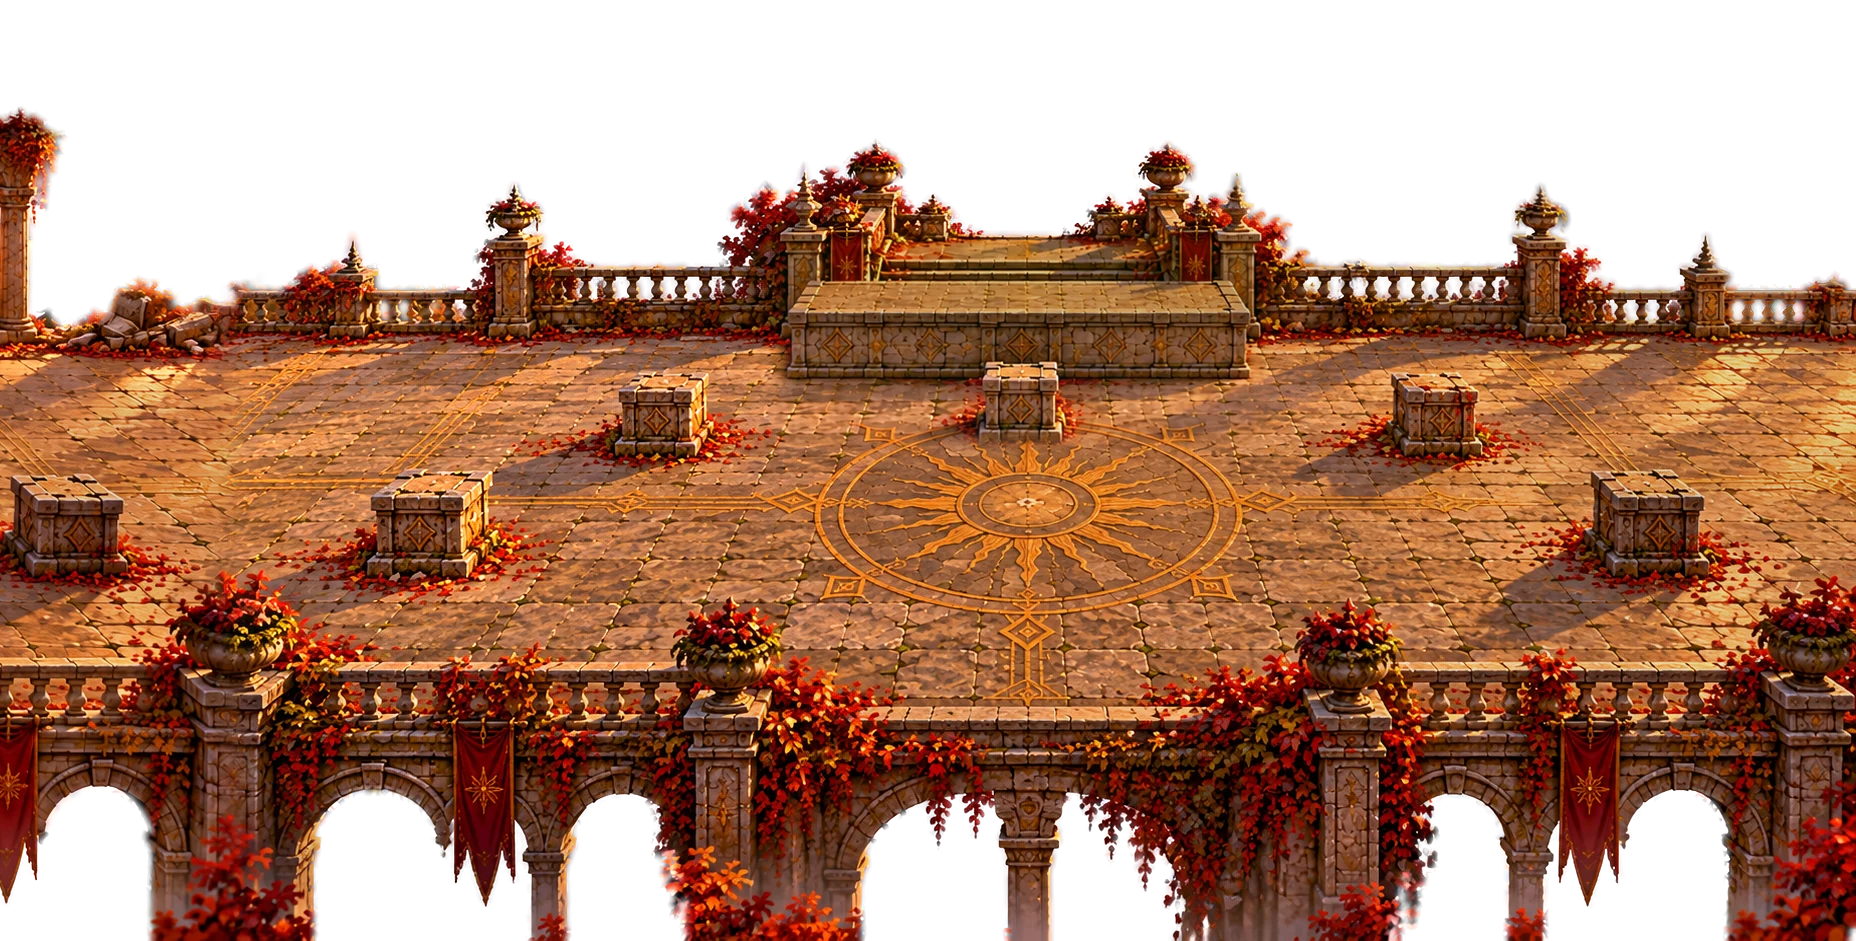
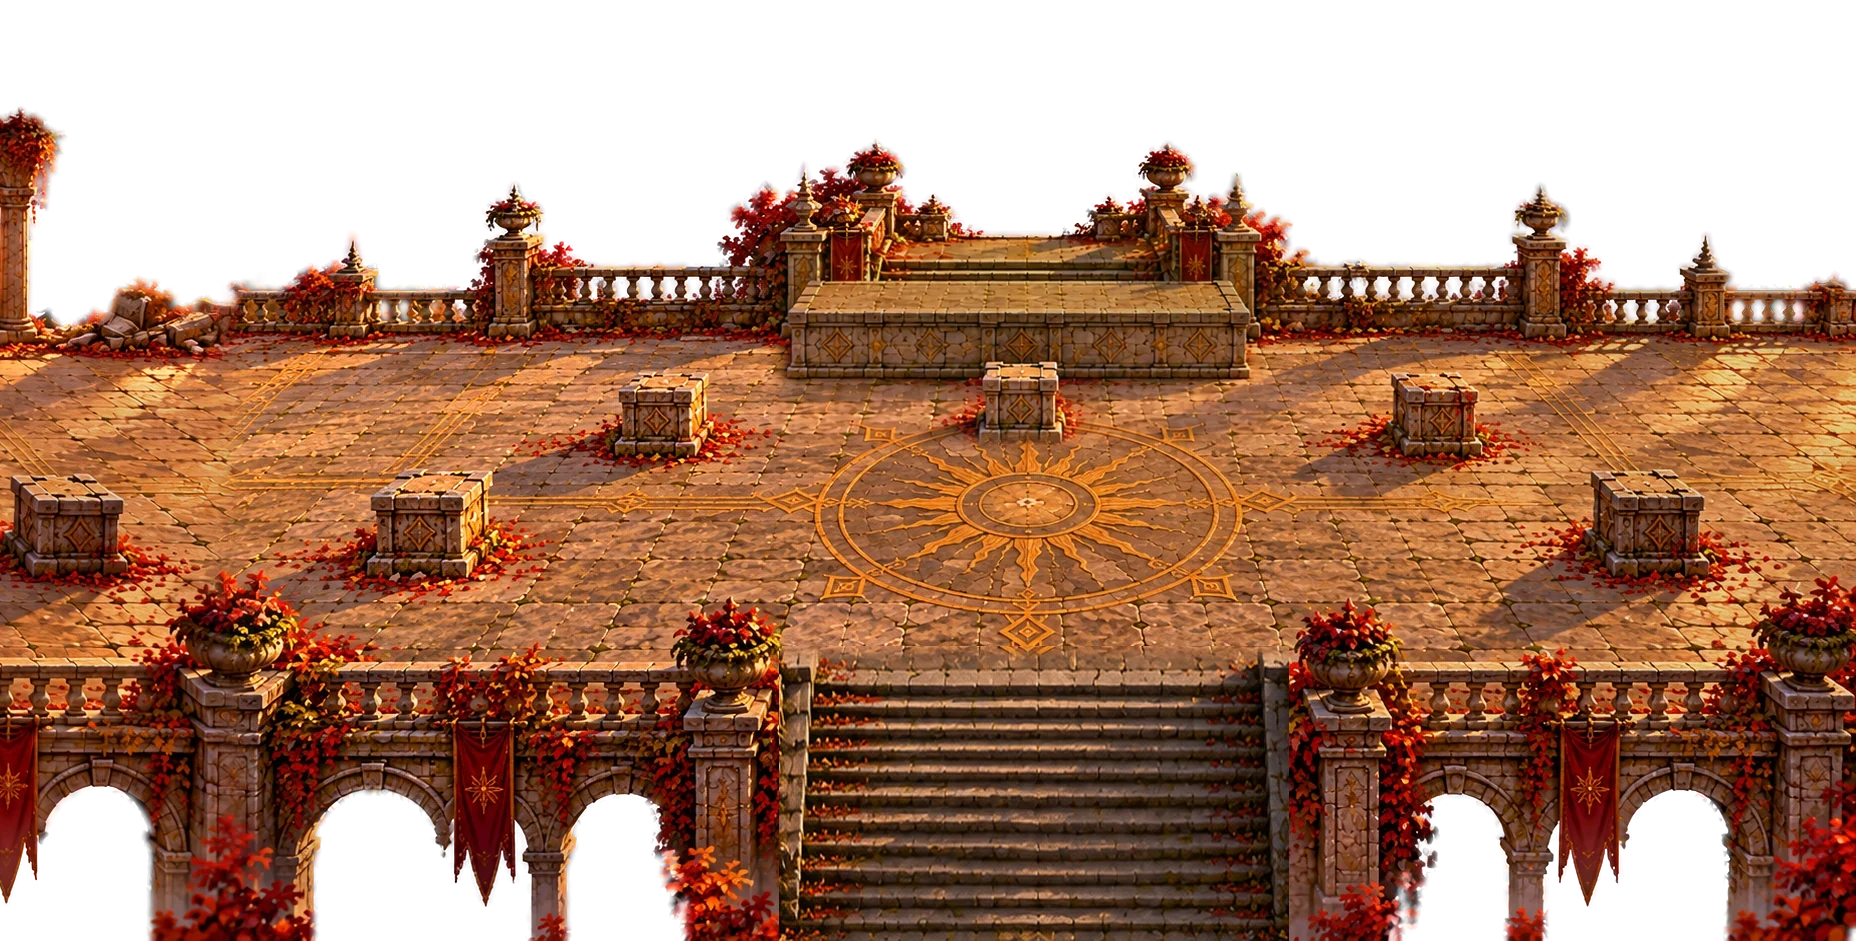
Sun Seal Plaza moved under Temple Road: the staircase is in the temple's front arcade on its gold centre line (courtyard arcade restored), the plaza spans the world's right end. Key Settings: keys take clicks and drops again (the HUD's .key pointer-events:none reached them)
Claude-Session: https://claude.ai/code/session_01L1uDDec2PRhRRuGiNU2YTw

Changed region(s): [[0.4062, 0.678, 0.7188, 1.0]]

diff --git a/src/ui/KeySettings.ts b/src/ui/KeySettings.ts
@@ -44,6 +44,8 @@ const CSS = `
 .gol-keys .board{position:absolute;left:${Z.board.x}px;top:${Z.board.y}px;width:${Z.board.w}px;height:${Z.board.h}px;display:flex;align-items:center;justify-content:center}
 .gol-keys .kb{position:relative}
 .gol-keys .key{position:absolute;height:${KEY}px;box-sizing:border-box;background:url("${K('keycap')}") center/100% 100% no-repeat;cursor:pointer;transition:filter 100ms}
+/* the HUD's own .key labels (pointer-events:none) must not reach these keys: they take clicks and drops */
+.gol-keys .kb .key{pointer-events:auto}
 .gol-keys .key.wide{background-image:url("${K('keycap_wide')}")}
 .gol-keys .key:hover{filter:brightness(1.18)}
 .gol-keys .key .lb{position:absolute;left:0;right:0;top:0;bottom:2px;display:flex;align-items:center;justify-content:center;font:700 19px ${FONT_FAMILY};color:#8f8160;pointer-events:none}

diff --git a/src/world/OpenWorld.ts b/src/world/OpenWorld.ts
@@ -190,7 +190,8 @@ export class OpenWorld {
     const lead = (ARENA.edgeY - terraceCy) * (1 - Phaser.Math.SmoothStep(y, ARENA.edgeY, ARENA.y));
     const ty = down ? Phaser.Math.Clamp(y - lead, terraceCy, ARENA.y + ARENA.h - halfH) : terraceCy;
     const hi = down ? Math.min(WORLD_W, ARENA.x + ARENA.w) - half : WORLD_W - half;
-    const tx = Phaser.Math.Clamp(x, half, Math.max(half, hi));
+    const lo = down ? Math.max(0, ARENA.x) + half : half;
+    const tx = Phaser.Math.Clamp(x, lo, Math.max(lo, hi));
     const k = snap ? 1 : 1 - Math.exp(-ms / CAM_EASE);
     this.camX += (tx - this.camX) * k;
     if (Math.abs(tx - this.camX) < 0.05) this.camX = tx;

diff --git a/tools/world/descent.py b/tools/world/descent.py
@@ -1,5 +1,5 @@
-# descent.py : the Sun Seal Plaza — the boss ground below the Legacy Courtyard, reached by walking down a staircase
-# cut into the courtyard's front arcade (no portal: the camera just follows you down).
+# descent.py : the Sun Seal Plaza — the boss ground below Temple Road (the temple area), reached by walking down a
+# staircase cut into the temple's front arcade (no portal: the camera just follows you down).
 #   in : tools/world/arena/arena_gpt.png (GPT's picture: the stairs + the plaza, at the strip's scale x 0.5)
 #        tools/world/arena/arena_x2.jpg  (the same, upscaled x2 by Real-ESRGAN x4plus then halved: see arena/README)
 #   out: public/assets/world/arena/<i>.webp (the plaza's picture tiles), the staircase patched into
@@ -15,20 +15,22 @@ G = os.path.dirname(os.path.abspath(__file__)) + '/'
 R = G + '../../'
 STRIP = json.load(open(R + 'src/data/world-strip.json'))
 TERRACE_H = STRIP['h']                     # 941: the terrace picture's height = where the plaza starts
-EDGE_Y = 652                               # the courtyard floor's front edge (the balustrade)
+EDGE_Y = 652                               # the terrace floor's front edge (the balustrade)
 
 # GPT picture (native px): the staircase between its cheek walls, and the line under the stairs where the plaza starts
 STAIR = (620, 48, 1050, 236)               # x0, y0, x1, y1
 CROP_Y = 236
 SCALE = 2                                  # plaza: native x2 (its tiles = the courtyard's tiles)
-# where the staircase goes in the courtyard's front arcade: between its two pillars (world px)
-GAP = (625, 1055)
+# where the staircase goes in the temple's front arcade: between its two pillars (temple-urn-13 / -14), on the
+# temple's gold centre line (world px); the strip tile that holds it
+GAP = (6923, 7433)
+TILE_I, TILE_X = 3, 6144
 # the plaza starts at the world's left end (x 0): the terrace runs above all of it, so looking up from anywhere on the
 # plaza shows the courtyard's arcade (the stairs come down onto its left part, the seal is further right)
-OX = 0
+OX = STRIP['w'] - 3344          # the plaza ends where the world ends (x 8000): the terrace runs above all of it
 OY = TERRACE_H
-# the walkable stairs (inside the cheek walls; clear of the pillar's footprint, courtyard-urn-2 at x 1016)
-WALK_STAIRS = (650, 1012)
+# the walkable stairs (inside the cheek walls)
+WALK_STAIRS = (6955, 7401)
 # the plaza floor (native px): inside the ruined walls and the columns
 FLOOR = [(130, 240), (1540, 240), (1508, 330), (1508, 540), (1585, 600), (1580, 760), (1470, 830), (200, 830),
          (92, 760), (88, 600), (166, 540), (166, 330)]
@@ -56,7 +58,7 @@ def main():
     tiles.append([OX + x, w])
 
   # the staircase into the courtyard's front arcade (strip tile 0): GPT's stairs stretched to the arcade's height
-  t0p = R + 'public/assets/world/strip/0.webp'
+  t0p = R + f'public/assets/world/strip/{TILE_I}.webp'
   t0 = Image.open(t0p).convert('RGBA')
   top = EDGE_Y - 6
   st = nat.crop(STAIR).resize((GAP[1] - GAP[0], TERRACE_H - top), Image.LANCZOS).convert('RGBA')
@@ -64,12 +66,13 @@ def main():
   ramp = 14                                # the top fades into the courtyard floor
   m[:ramp] = (np.arange(ramp) / ramp * 255).astype(np.uint8)[:, None]
   st.putalpha(Image.fromarray(m))
-  under = t0.crop((GAP[0], top, GAP[1], TERRACE_H))
+  gx0, gx1 = GAP[0] - TILE_X, GAP[1] - TILE_X
+  under = t0.crop((gx0, top, gx1, TERRACE_H))
   # under the faded top: the courtyard floor carried down (the rail is gone there)
-  floor = t0.crop((GAP[0], top - ramp, GAP[1], top)).resize((GAP[1] - GAP[0], ramp))
+  floor = t0.crop((gx0, top - ramp, gx1, top)).resize((gx1 - gx0, ramp))
   base = Image.new('RGBA', st.size); base.paste(under, (0, 0)); base.paste(floor, (0, 0))
   base.alpha_composite(st)
-  t0.paste(base, (GAP[0], top))
+  t0.paste(base, (gx0, top))
   t0.save(t0p, 'WEBP', quality=88, alpha_quality=100, method=6)
 
   # the one floor: the strip's + the stairs + the plaza
@@ -92,6 +95,6 @@ def main():
     pv = plaza.copy(); d = ImageDraw.Draw(pv)
     d.polygon([(x - OX, y - OY) for x, y in floorW.exterior.coords], outline=(0, 255, 0), width=5)
     pv.resize((pw // 2, ph // 2)).save(G + 'qc/arena.jpg', quality=85)
-    t0.crop((300, 400, 1400, TERRACE_H)).save(G + 'qc/stairs.png')
+    t0.crop((gx0 - 500, 400, min(t0.width, gx1 + 500), TERRACE_H)).save(G + 'qc/stairs.png')
 
 if __name__ == '__main__': main()
